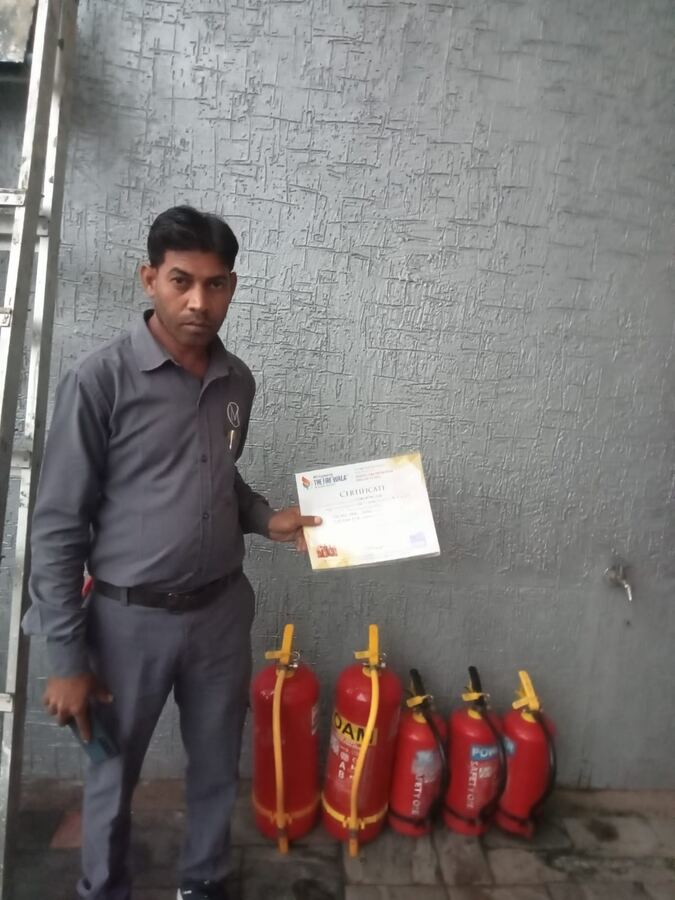
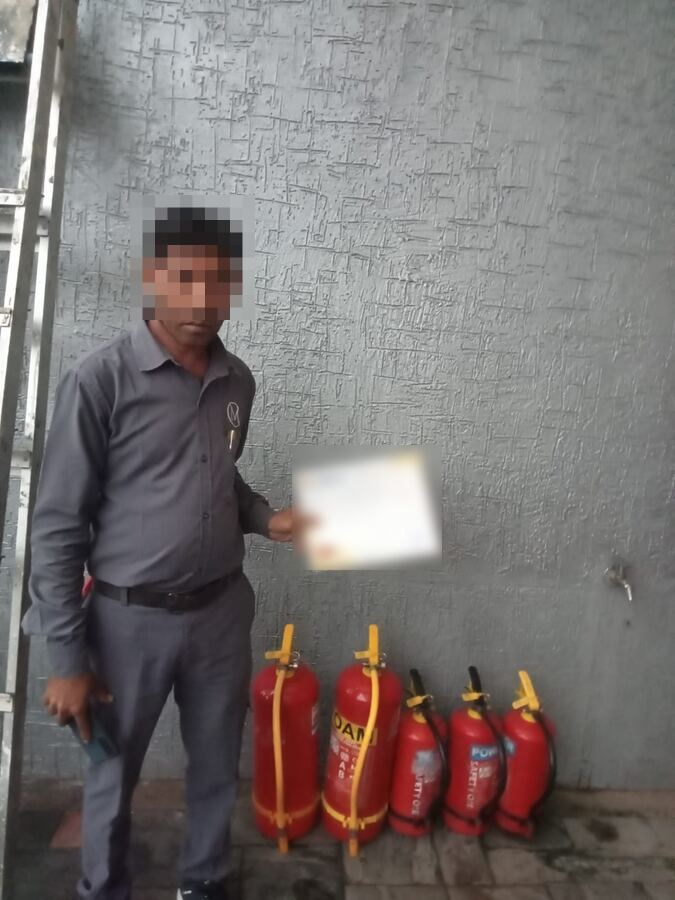
Year-end page: per-cylinder calc with size discounts, starting-from wording, blurred photos
Claude-Session: https://claude.ai/code/session_01QZSEXjoso6zQKZNAxqHRHX

Changed region(s): [[0.4356, 0.4978, 0.6533, 0.6533], [0.1867, 0.2178, 0.3733, 0.3733]]

diff --git a/client/year-end-offer.html b/client/year-end-offer.html
@@ -68,7 +68,7 @@ index.html
 <nav class="nav">
   <!-- Offer banner (inside fixed nav so it stays visible) -->
   <div class="offer-banner" role="note">
-    <strong>🎉 Year-End Offer:</strong> ABC · CO2 · Foam · Water — all at <b>₹100/kg + GST</b>
+    <strong>🎉 Year-End Offer:</strong> ABC · CO2 · Foam · Water refilling — starting <b>₹100/kg + GST</b>
     <span class="ye-cd" id="yeCountdown" data-end="2027-01-31T23:59:59+05:30"></span>
     <span class="ob-more"><span class="ob-sep">·</span> 24–48 hrs <span class="ob-sep">·</span> FREE pickup on 4+</span>
   </div>
@@ -213,7 +213,7 @@ index.html
         <ul class="hero-list">
           <li>24–48 hours turnaround (depends on extinguisher type)</li>
           <li>FREE pickup &amp; drop on 4 or more cylinders — even 1 cylinder accepted</li>
-          <li>Same ₹100/kg rate for ABC, CO2, Foam &amp; Water extinguishers (1 Dec – 31 Jan)</li>
+          <li>ABC, CO2, Foam &amp; Water — all from ₹100/kg, extra 10–15% off on bigger cylinders (1 Dec – 31 Jan)</li>
           <li>Refilling certificate + next-due-date sticker on every cylinder</li>
           <li>Limited period offer — book your slot today</li>
         </ul>
@@ -289,13 +289,13 @@ index.html
       <div class="price-card">
         <div class="price-head">
           <p class="kicker">Year-end offer · 1 Dec – 31 Jan</p>
-          <h2>Every extinguisher type at ₹100/kg <small>+ GST</small></h2>
-          <p class="price-sub">One flat rate for every type of extinguisher.</p>
+          <h2>All extinguisher types — starting ₹100/kg <small>+ GST</small></h2>
+          <p class="price-sub">₹100 per kg/litre for every type. Bigger cylinders cost even less: <b>10% off above 4 kg</b> · <b>15% off on 9 kg/L &amp; above</b>.</p>
           <div class="type-tiles">
-            <div class="type-tile"><span class="tt-name">ABC Powder</span><span class="tt-price">₹100<small>/kg</small></span></div>
-            <div class="type-tile"><span class="tt-name">CO2</span><span class="tt-price">₹100<small>/kg</small></span></div>
-            <div class="type-tile"><span class="tt-name">Foam</span><span class="tt-price">₹100<small>/kg</small></span></div>
-            <div class="type-tile"><span class="tt-name">Water</span><span class="tt-price">₹100<small>/kg</small></span></div>
+            <div class="type-tile"><span class="tt-name">ABC Powder</span><span class="tt-price"><small>from </small>₹100<small>/kg</small></span></div>
+            <div class="type-tile"><span class="tt-name">CO2</span><span class="tt-price"><small>from </small>₹100<small>/kg</small></span></div>
+            <div class="type-tile"><span class="tt-name">Foam</span><span class="tt-price"><small>from </small>₹100<small>/L</small></span></div>
+            <div class="type-tile"><span class="tt-name">Water</span><span class="tt-price"><small>from </small>₹100<small>/L</small></span></div>
           </div>
         </div>
         <ul class="price-list">
@@ -365,7 +365,7 @@ index.html
     <div class="container">
       <div class="calc-card">
         <h2>Estimate your refilling cost</h2>
-        <p class="calc-sub">ABC · CO2 · Foam — flat ₹100/kg + GST (limited period offer)</p>
+        <p class="calc-sub">Starting ₹100 per kg/litre + GST · Bigger cylinder = bigger discount (above 4 kg: 10% off · 9 kg/L &amp; above: 15% off)</p>
         <div class="calc-row">
           <label>Extinguisher type
             <select id="calcType">
@@ -374,8 +374,7 @@ index.html
           </label>
           <label>Cylinder size
             <select id="calcSize">
-              <option value="1">1 kg</option><option value="2">2 kg</option><option value="4">4 kg</option>
-              <option value="4.5">4.5 kg</option><option value="6" selected>6 kg</option><option value="9">9 kg</option>
+              
             </select>
           </label>
           <label>Number of cylinders

diff --git a/client/script.js b/client/script.js
@@ -863,7 +863,7 @@ document.addEventListener("click", function (e) {
 
 
 // =========================================
-// PRICE CALCULATOR (ABC / CO2 / Foam, Rs.100/kg + GST)
+// PRICE CALCULATOR: Rs.100 per kg/L + GST, size discount (>4: 10%, >=9: 15%)
 // =========================================
 (function () {
   const type = document.getElementById("calcType");
@@ -873,20 +873,36 @@ document.addEventListener("click", function (e) {
   const wa = document.getElementById("calcWa");
   if (!size || !qty || !out || !wa) return;
   const RATE = 100, GST = 0.18;
+  const SIZES = {
+    ABC: { unit: "kg", list: [1, 2, 4, 6, 9], def: 6 },
+    CO2: { unit: "kg", list: [2, 4.5, 6, 9], def: 4.5 },
+    Foam: { unit: "L", list: [6, 9, 50], def: 9 },
+    Water: { unit: "L", list: [6, 9], def: 9 }
+  };
   function inr(n) { return "₹" + Math.round(n).toLocaleString("en-IN"); }
+  function disc(c) { if (!type) return 0; return c >= 9 ? 0.15 : c > 4 ? 0.10 : 0; }
+  function cfg() { return SIZES[type ? type.value : "ABC"] || SIZES.ABC; }
+  function fillSizes() {
+    if (!type) return;
+    const c = cfg();
+    size.innerHTML = c.list.map(v => '<option value="' + v + '"' + (v === c.def ? " selected" : "") + ">" + v + " " + c.unit + "</option>").join("");
+  }
   function update() {
-    const kg = Number(size.value) || 0;
+    const c = cfg(), cap = Number(size.value) || 0;
     const n = Math.max(1, Math.min(500, Math.floor(Number(qty.value) || 1)));
-    const base = kg * n * RATE;
-    const total = base * (1 + GST);
-    out.innerHTML = "Estimated: <b>" + inr(base) + "</b> + GST (" + inr(total) + " incl. 18% GST)<br>" +
+    const d = disc(cap), list = cap * RATE, per = list * (1 - d), base = per * n;
+    out.innerHTML =
+      "Per cylinder: " + cap + " " + c.unit + " × ₹100 = " + inr(list) +
+      (d ? " → <b>" + inr(per) + "</b> after " + (d * 100) + "% size discount" : " → <b>" + inr(per) + "</b>") +
+      "<br>" + n + " cylinder(s): <b>" + inr(base) + "</b> + GST (" + inr(base * (1 + GST)) + " incl. 18% GST)<br>" +
       (n >= 4 ? "✅ FREE pickup &amp; drop included" : "Add " + (4 - n) + " more cylinder(s) for FREE pickup &amp; drop");
     const t = type ? type.value : "ABC";
-    const msg = "Hello The Fire Wala, I want refilling quote: " + n + " x " + kg + " kg " + t + " cylinders (estimate " + inr(base) + " + GST).";
+    const msg = "Hello The Fire Wala, I want refilling quote: " + n + " x " + cap + " " + c.unit + " " + t + " (estimate " + inr(base) + " + GST).";
     wa.href = "https://wa.me/917772078610?text=" + encodeURIComponent(msg);
   }
+  if (type) type.addEventListener("change", function () { fillSizes(); update(); });
   size.addEventListener("change", update);
-  if (type) type.addEventListener("change", update);
   qty.addEventListener("input", update);
+  fillSizes();
   update();
 })();
